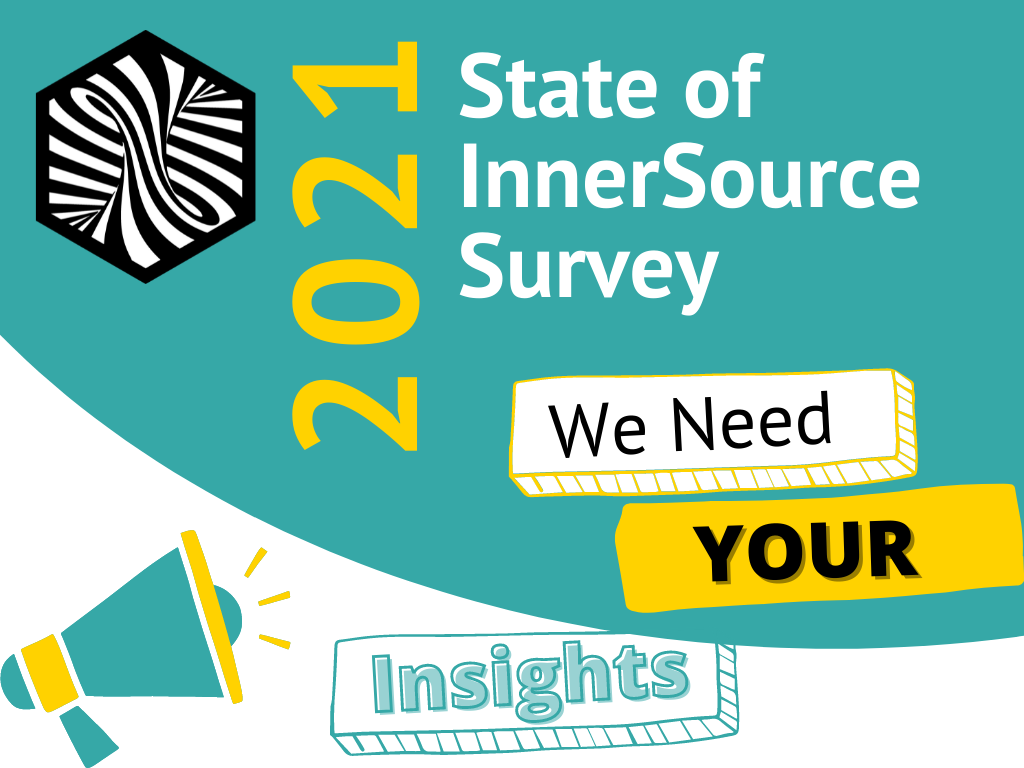
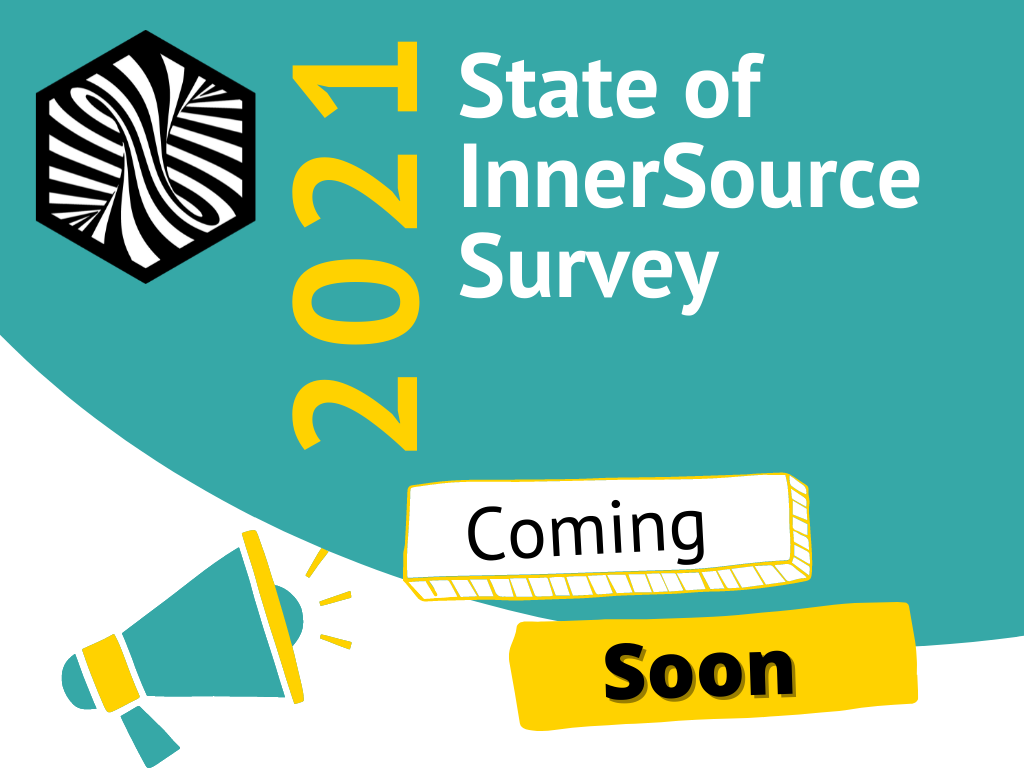
Changing the text on the 2021 State of InnerSource page (#215)
* Changing the text on the 2021 State of InnerSource page

I have changed the text on this page to reflect the fact that we are currently working on the report.

Is there any chance we could remove the Read Research Report button for the moment, until the report is published?

* Update state-of-innersource-survey-2021.md

* Changing text on buttons

I tried my best but I am getting errors I don't know how to fix.

Initially it was telling me that it expected time.Time and was getting string, and I kept trying to convert string to time.

Now it is saying that can't give argument to non-function now.Before .Params.finish_date

* half fix

* string to time function fix

* Changed variable names

Changed region(s): [[0.0, 0.4688, 1.0, 1.0]]

diff --git a/layouts/research/list.html b/layouts/research/list.html
@@ -14,7 +14,13 @@
           <div class="card-body p-0">
             <!-- <h3><a href="{{ .Permalink }}" class="post-title">{{ .Title }}</a></h3> -->
             <p class="card-text">{{ .Summary }}</p>
-            <a href="{{.Permalink}}" class="btn btn-primary btn-sm">{{ cond (eq .Params.survey_active true) "Take Survey" "Read Research Report" }}</a>
+            {{ if and (now.Before (time .Params.report_publish_date)) (now.After (time .Params.survey_closing_date)) }}
+              <a href="{{.Permalink}}" class="btn btn-primary btn-sm">Coming Soon</a>
+            {{ else if (now.After (time .Params.report_publish_date)) }}
+              <a href="{{.Permalink}}" class="btn btn-primary btn-sm">Read Research Report</a>
+            {{ else }}
+              <a href="{{.Permalink}}" class="btn btn-primary btn-sm">Take Survey</a>
+            {{ end }}
           </div>
         </div>
       </div>

diff --git a/layouts/research/single.html b/layouts/research/single.html
@@ -12,7 +12,13 @@
           </div>
           <div class="col-md-6">
             <h1 class="mb-4">{{ .Title }}</h1>
-            <a href="{{.Params.research_url}}" target="_blank" class="btn btn-primary">{{ cond (eq .Params.survey_active true) "Take Survey" "Read Research Report" }}</a>
+            {{ if and (now.Before (time .Params.report_publish_date)) (now.After (time .Params.survey_closing_date)) }}
+              <a href="{{.Params.research_url}}" target="_blank" class="btn btn-primary">Coming Soon</a>
+            {{ else if (now.After (time .Params.report_publish_date)) }}
+              <a href="{{.Params.research_url}}" target="_blank" class="btn btn-primary">Read Research Report</a>
+            {{ else }}
+              <a href="{{.Params.research_url}}" target="_blank" class="btn btn-primary">Take Survey</a>
+            {{ end }}
           </div>
         </div>
 

diff --git a/content/learn/research/state-of-innersource-survey-2021.md b/content/learn/research/state-of-innersource-survey-2021.md
@@ -3,19 +3,22 @@ type: research
 title: 'State of InnerSource Survey 2021'
 image: "/images/learn/research/sois2021.png"
 weight: 4
-summary: We need your help. Share your insights with us in the State of InnerSource Survey 2021.
-research_url: https://www.surveymonkey.com/r/SOIS2021
-survey_active: true
+summary: We are working hard on the State of InnerSource Survey 2021. Check back in soon.
+survey_closing_date: 2022-01-12
+report_publish_date: 2022-12-30
 ---
 
-## Give Us Your Insights
+## Check Back in Soon
 
-We need your help with the [State of InnerSource Survey 2021](https://www.surveymonkey.com/r/SOIS2021).
+We've had a great response from our community and collected over 120 answers to our State of InnerSource survey. 
 
-Whether or not your organization has adopted a formal InnerSource program, we are interested in hearing from you! The survey is focused on your interests and experiences with InnerSource. Of course, if your organization has started with InnerSource, we’d like to hear how this is done, and why.
-
-Your insights will help us understand how to better support organisations on their InnerSource journey as well as give us and the community an idea of the State of InnerSource year over year.
+We are working hard on processing the data and writing the report and we are looking forward to sharing with you insights into InnerSource journeys. 
 
 This research will reveal current trends and will give everyone an understanding of the way to achieve successful InnerSource outcomes for developers, teams, organisations and communities.
 
-Take 15min to complete the [State of InnerSource Survey 2021](https://www.surveymonkey.com/r/SOIS2021)!
+If you would like to be notified when the report is published, subscribe to our mailing list below.
+
+{{< contact-form >}}
+
+
+

diff --git a/content/learn/research/state-of-innersource-survey-2016.md b/content/learn/research/state-of-innersource-survey-2016.md
@@ -5,6 +5,8 @@ image: "/images/learn/research/sois2016.jpg"
 weight: 4
 summary: Report of the 2016 State of InnerSource Survey
 research_url: /documents/surveys/InnerSourceCommonsSurvey2016.pdf
+survey_closing_date: 2016-12-12
+report_publish_date: 2016-12-30
 ---
 
 The goal of this First Annual State of InnerSource Commons survey was to establish a first baseline of how organizations adopt InnerSource. The survey addresses many aspects, including development methods, practices, quality assurance, tools, and motivation and organizational support.

diff --git a/content/learn/research/state-of-innersource-survey-2020.md b/content/learn/research/state-of-innersource-survey-2020.md
@@ -5,6 +5,8 @@ image: "/images/learn/research/sois2020.jpg"
 weight: 4
 summary: Report of the 2020 State of InnerSource Survey
 research_url: /documents/surveys/State.of.InnerSource.Report.2020.pdf
+survey_closing_date: 2020-12-12
+report_publish_date: 2021-12-30
 ---
 
 The goal of the survey was to address three main questions:
